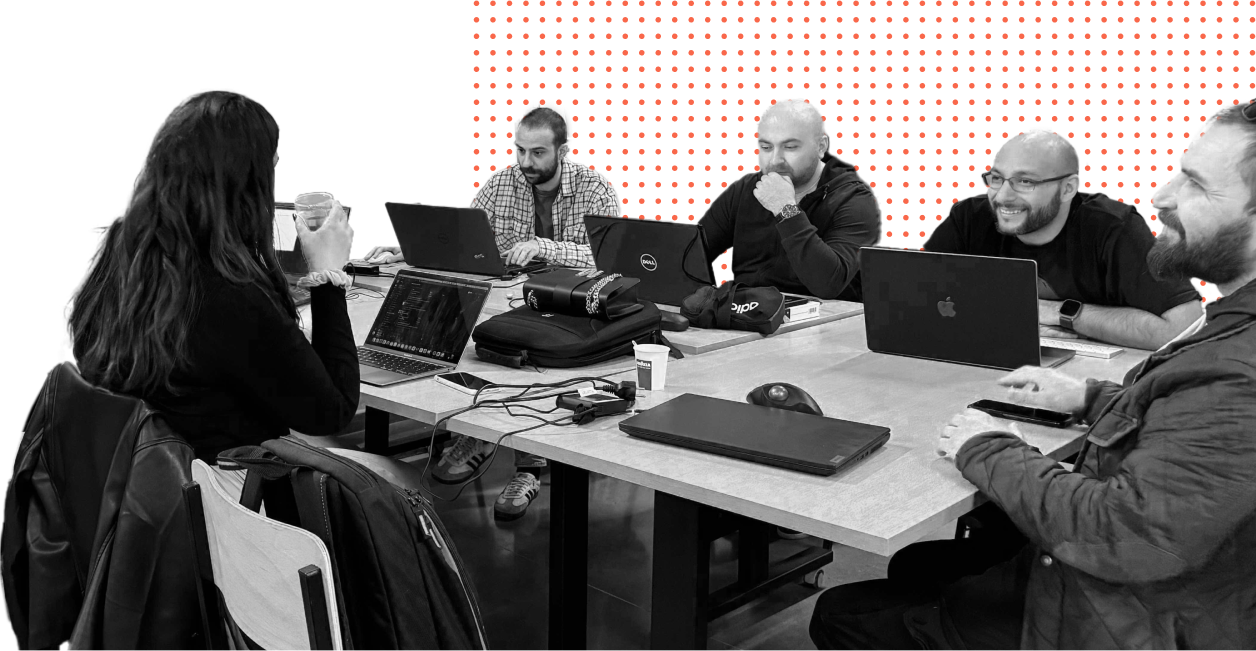
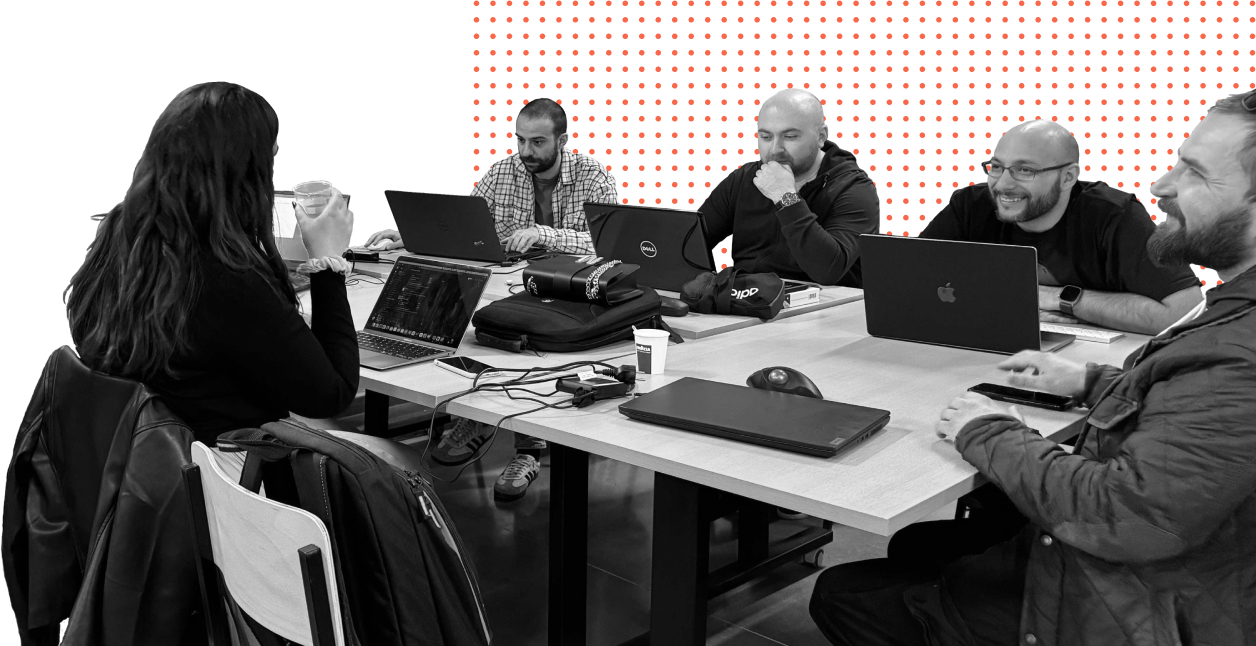
#258 - Updated the footer images

diff --git a/components/module-components/contact/Contact.tsx b/components/module-components/contact/Contact.tsx
@@ -7,7 +7,7 @@ import { useTheme } from '../../../app/context/themeContext';
 import ContactForm from './ContactForm';
 import Button from '../../reusable-components/button/Button';
 import ContactImageDesktop from '../../../public/contact-section-image-desktop.png';
-import ContactImageMobile from '../../../public/contact-section-image-mobile.png';
+import ContactImageMobile from '../../../public/contact-section-mob-image.png';
 
 const Contact = () => {
   const { theme } = useTheme();
